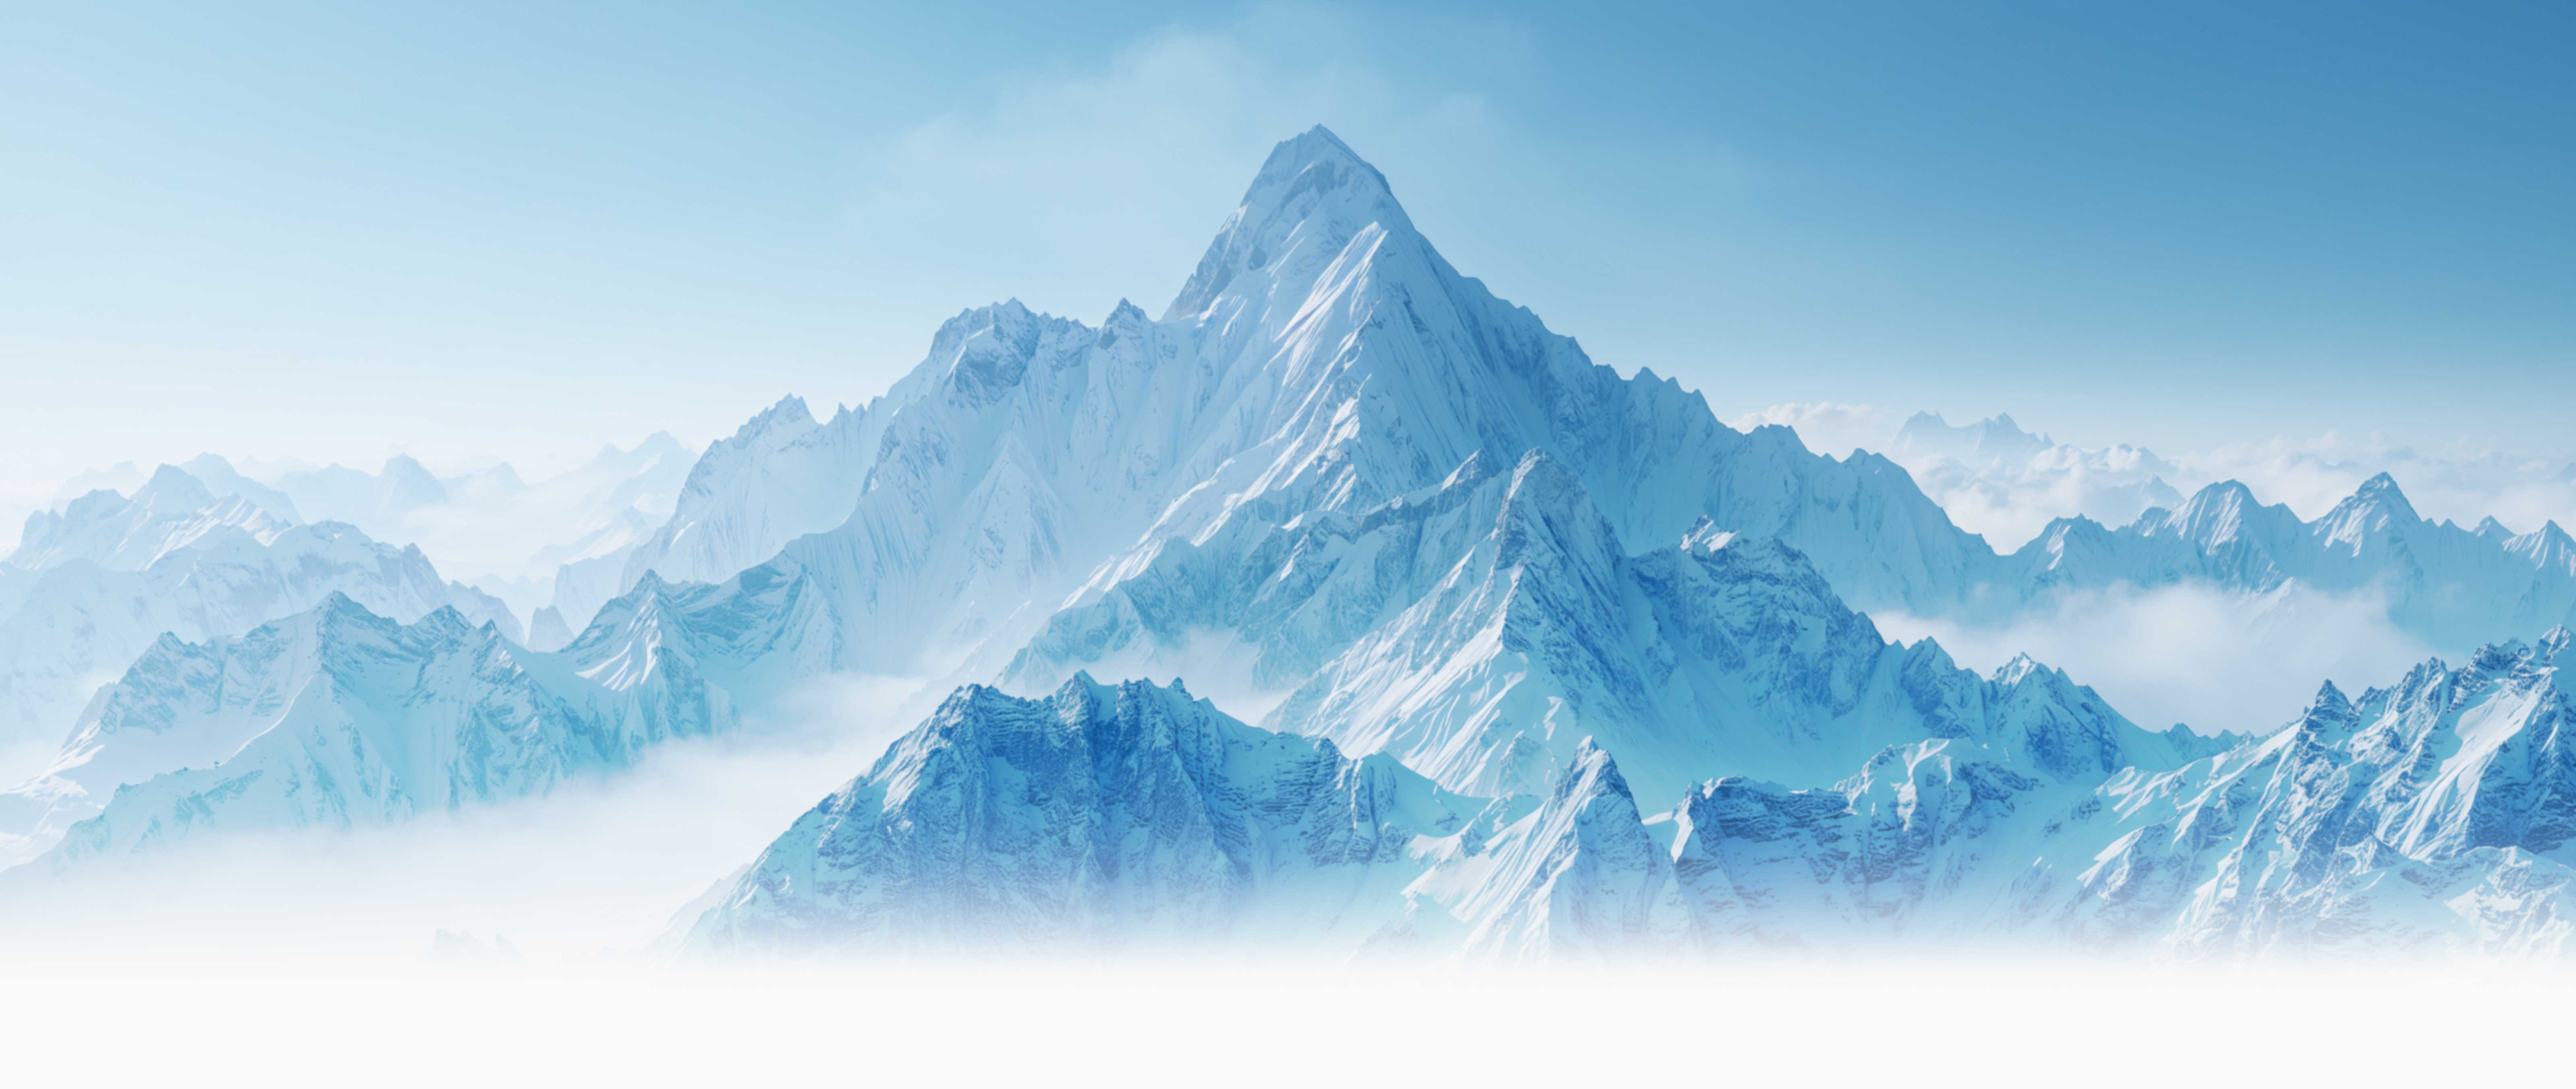
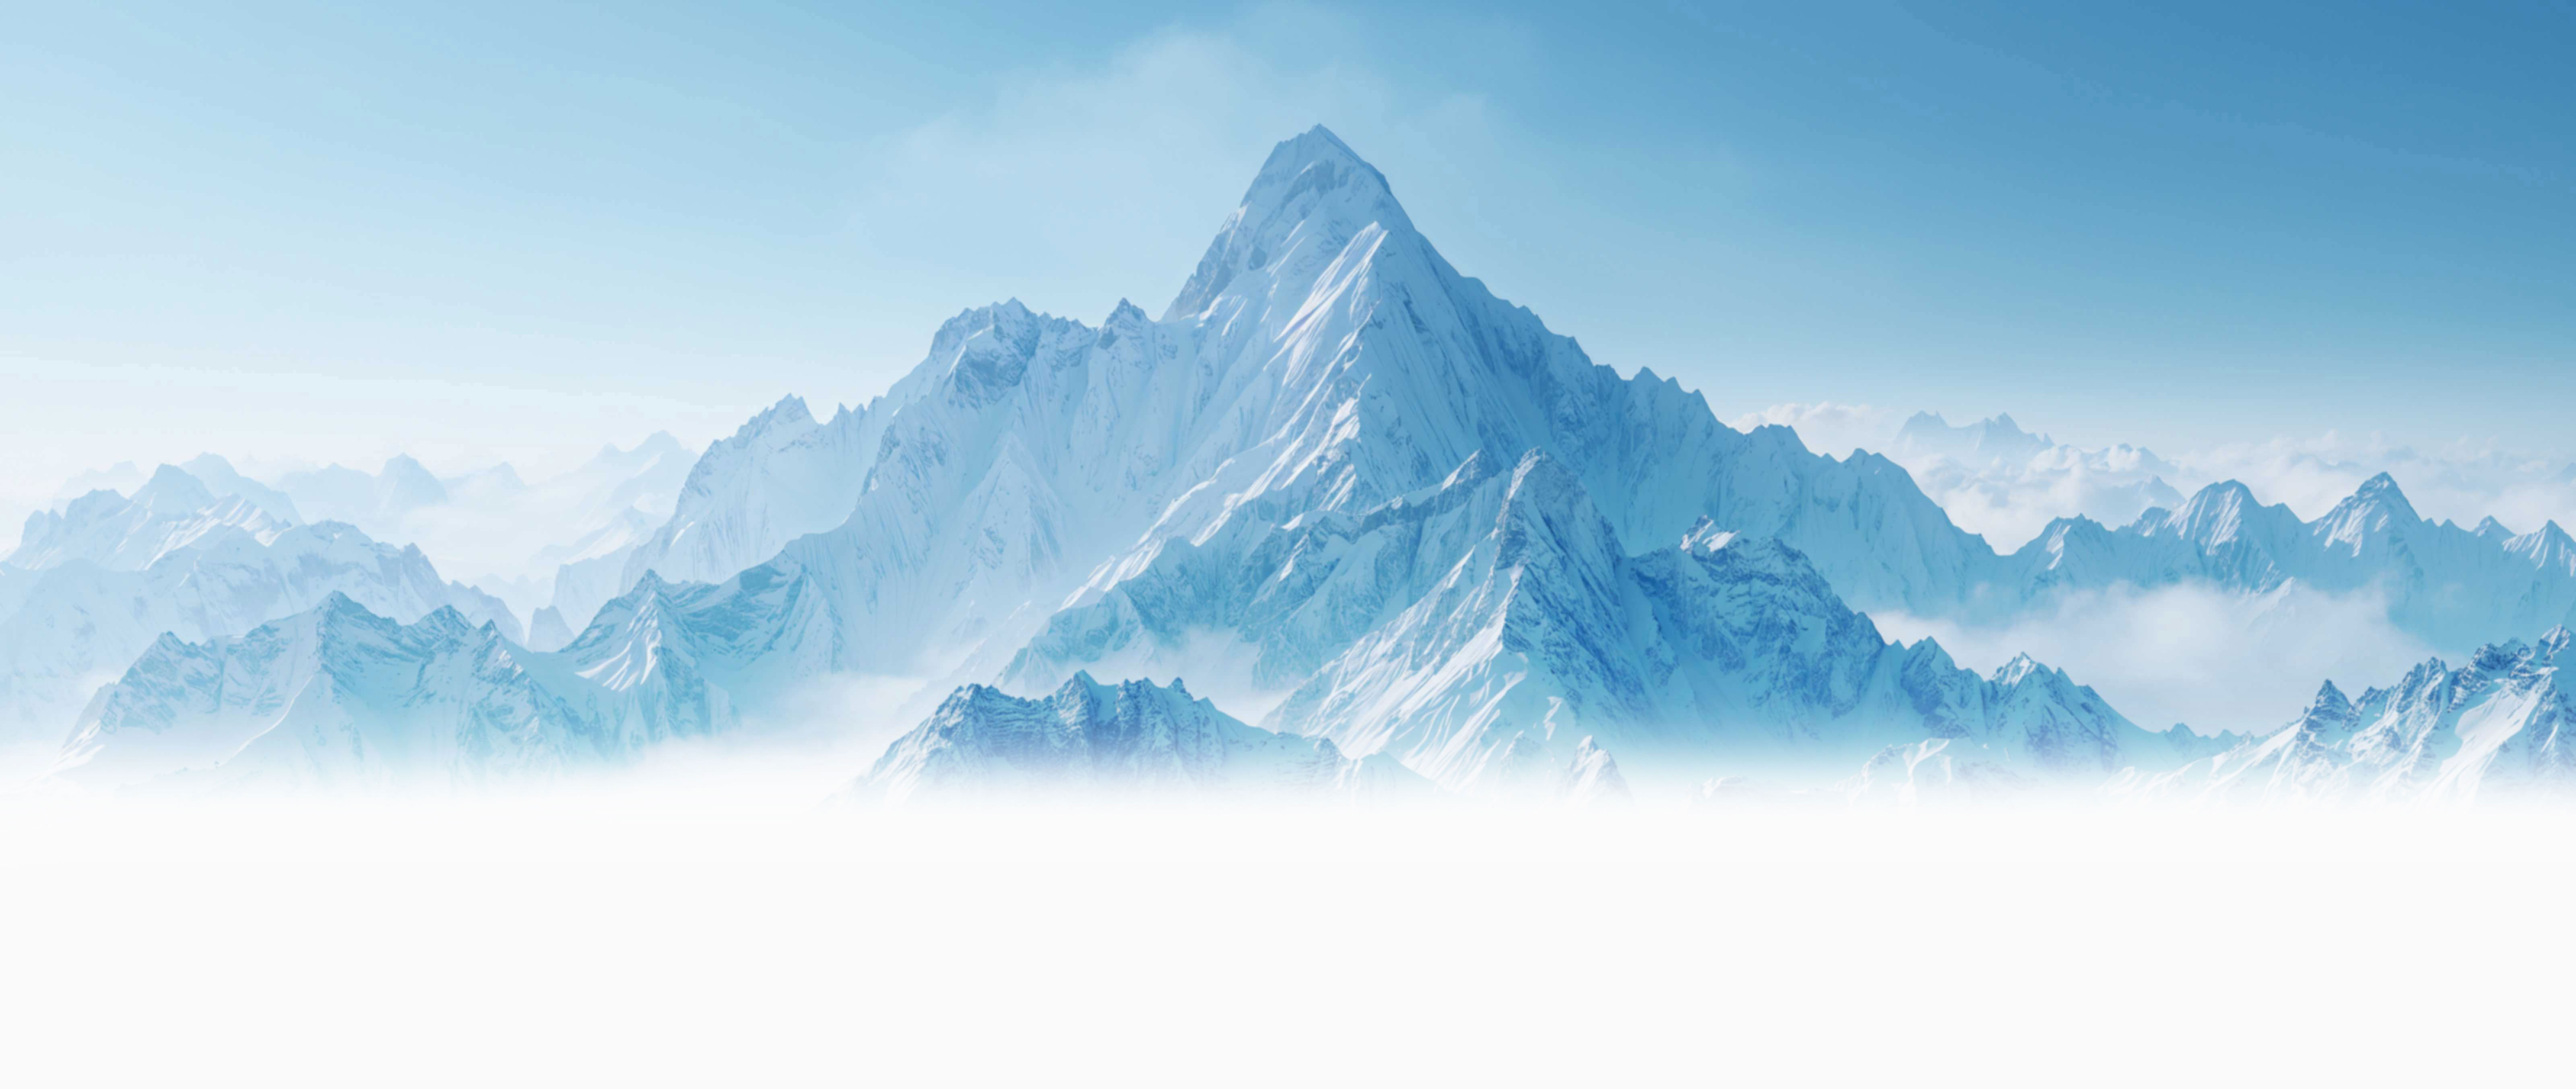
Auto Update - 20260131230156

Changed region(s): [[0.0, 0.6514, 1.0, 0.8996]]

diff --git a/index.html b/index.html
@@ -76,6 +76,11 @@
     gtag('config', 'G-VPX3GGRR7H');
   </script>
 
+  <!-- Google AdSense -->
+  <script async
+    src="https://pagead2.googlesyndication.com/pagead/js/adsbygoogle.js?client=ca-pub-4549865852809903"
+    crossorigin="anonymous"></script>
+  
 </head>
 
 <body>
@@ -144,8 +149,22 @@
     <path d="M8 5l8 7-8 7" />
   </svg>
 </button>
+</section> <!-- END BANNER -->
 
+<!-- TOP DISPLAY AD -->
+<section class="ad-section ad-top">
+  <ins class="adsbygoogle"
+       style="display:block"
+       data-ad-client="ca-pub-4549865852809903"
+       data-ad-slot="1551401768"
+       data-ad-format="auto"
+       data-full-width-responsive="true"></ins>
 </section>
+
+<script>
+  (adsbygoogle = window.adsbygoogle || []).push({});
+</script>
+
   <!-- CATEGORIES -->
   <section class="categories">
     <div class="category-grid">
@@ -188,14 +207,12 @@ let page = 1;
 let loading = false;
 const isLargeScreen = window.innerWidth > 1800;
 const limit = 12;
-
-
+let imageCounter = 0;
 
 /* FIXED MASONRY COLUMNS (SAME AS SEARCH PAGE) */
 const masonry = document.getElementById("related-masonry");
 const cols = Array.from(masonry.querySelectorAll(".masonry-col"));
 let colIndex = 0;
-
 
 function downloadImage(rawName) {
   window.location.href = `${API_BASE}/api/images/download/${encodeURIComponent(rawName)}`;
@@ -238,6 +255,30 @@ function addToNextColumn(card) {
   colIndex = (colIndex + 1) % cols.length;
 }
 
+function createAdCard() {
+  const adDiv = document.createElement("div");
+  adDiv.classList.add("image-item", "ad-item");
+
+  adDiv.innerHTML = `
+    <div class="image-wrapper ad-wrapper">
+      <span class="ad-label">Advertisement</span>
+
+      <ins class="adsbygoogle"
+           style="display:block"
+           data-ad-client="ca-pub-4549865852809903"
+           data-ad-slot="2074145941"
+           data-ad-format="rectangle"></ins>
+    </div>
+  `;
+
+  setTimeout(() => {
+    try {
+      (adsbygoogle = window.adsbygoogle || []).push({});
+    } catch (e) {}
+  }, 100);
+
+  return adDiv;
+}
 
 async function loadInitialImages() {
   try {
@@ -253,6 +294,11 @@ async function loadInitialImages() {
 
     (data.images || []).forEach(img => {
       addToNextColumn(createImageCard(img));
+      imageCounter++;
+
+      if (imageCounter % 15 === 0) {
+        addToNextColumn(createAdCard());
+      }
     });
 
     lazyLoadInit();
@@ -288,6 +334,11 @@ async function loadImages() {
 
     (data.images || []).forEach(img => {
       addToNextColumn(createImageCard(img));
+      imageCounter++;
+
+      if (imageCounter % 15 === 0) {
+        addToNextColumn(createAdCard());
+      }
     });
 
     page++;
@@ -423,7 +474,6 @@ goTopBtn.addEventListener("click", () => {
   });
 });
 
-
 /* ================= COOKIE ================= */
 document.addEventListener("DOMContentLoaded", () => {
   const banner = document.getElementById("cookie-banner");
@@ -438,4 +488,11 @@ document.addEventListener("DOMContentLoaded", () => {
     banner.classList.remove("show");
   });
 });
+
+if (location.protocol === 'file:') {
+  document.querySelectorAll('.ad-section').forEach(ad => {
+    ad.style.display = 'none';
+  });
+}
+
 </script>

diff --git a/css/style.css b/css/style.css
@@ -153,19 +153,26 @@ color: #222;
 
 /* ---------------- BANNER ---------------- */
 .banner {
-background-image: url("../images/banner.jpg");
-background-size: cover;
-background-position: center;
-height: 550px;
-display: flex;
-flex-direction: column;
-justify-content: center;
-align-items: center;
-text-align: center;
-position: relative;
-overflow: hidden;
-padding-top: 100px;
+  background-image: url("../images/banner.jpg");
+  background-size: cover;
+  background-position: center;
+
+  min-height: 420px;
+  height: auto;
+
+  padding-top: 100px;
+  padding-bottom: 60px;
+
+  display: flex;
+  flex-direction: column;
+  justify-content: center;
+  align-items: center;
+  text-align: center;
+
+  position: relative;
+  overflow: hidden;
 }
+
 
 .banner-content {
 width: 100%;
@@ -264,13 +271,30 @@ justify-content: center;
   padding: 25px 0;          /* adds breathing room */
 }
 
+.ad-section {
+  width: 100%;
+  margin: 20px 0;
+  text-align: center;
+  min-height: 0; /* IMPORTANT */
+}
+
+.ad-top {
+  max-width: 1200px;
+  margin-left: auto;
+  margin-right: auto;
+}
+
+.ad-section ins {
+  display: block;
+}
+
 /* ---------------- CATEGORY ---------------- */
 .category-grid {
 display: flex;
 flex-wrap: wrap;
 gap: 10px;
 justify-content: center;
-margin: 30px 0 20px;
+margin: 10px 0 20px;
 }
 
 .category {
@@ -334,6 +358,23 @@ color: white;
     z-index: 9999 !important;
 }
 
+.ad-item {
+  pointer-events: auto;
+}
+
+.ad-wrapper {
+  background: #f7f7f7;
+  border-radius: 12px;
+  padding: 10px;
+}
+
+.ad-label {
+  display: block;
+  font-size: 11px;
+  color: #888;
+  text-align: center;
+  margin-bottom: 6px;
+}
 
 
 /* ===========================================
